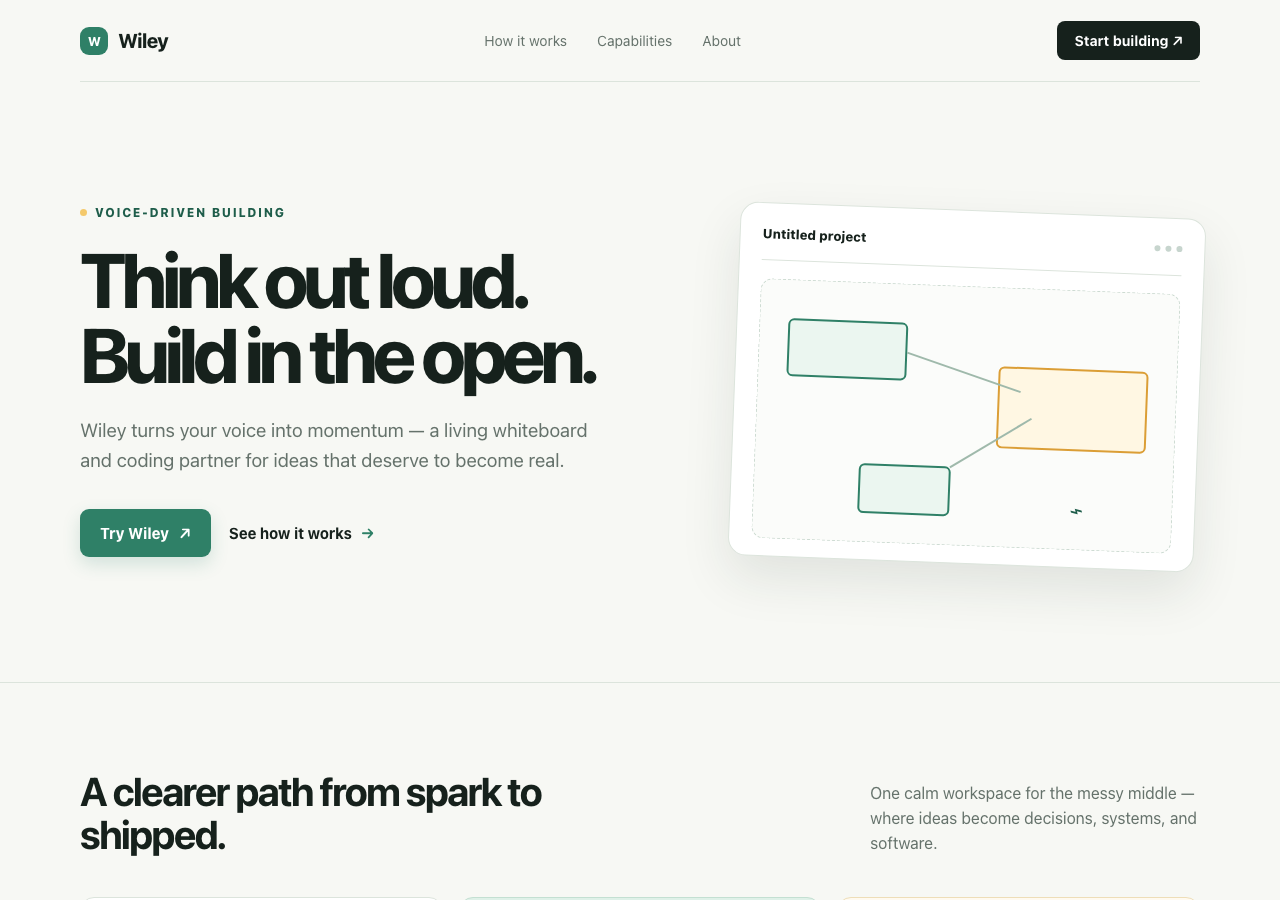
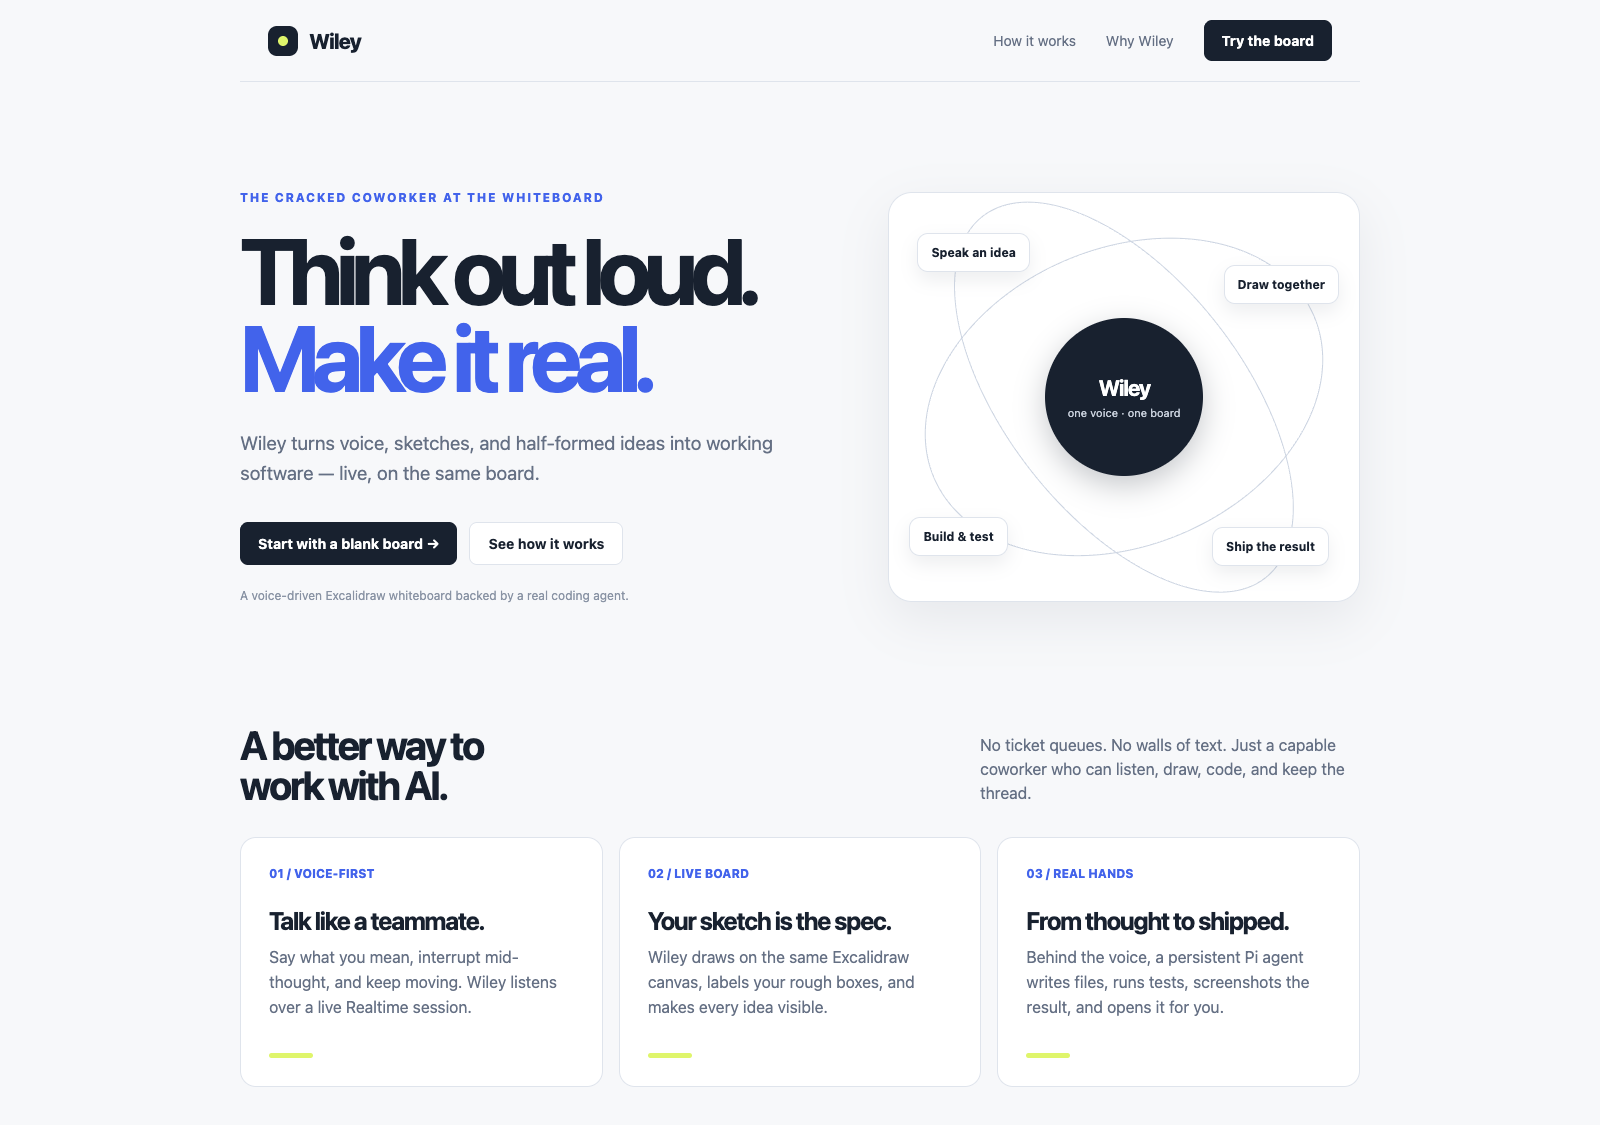
Refresh the README boards from a current landing run
Both hero images came from an old landing scenario run, back when the voice
node still read gpt-realtime-2.1. Regenerated from run-2026-08-16T18-07-56.797Z,
which passed 10/10: the diagram now carries themed node roles and the shipped
default, gpt-realtime-mini-2.1, and the site shot is the page that run built.

The stale label had a source: the harness guide and the test procedure both
still named gpt-realtime-2.1 as the wired model, and those docs are copied
into the scenario workspace for the agent to read. Corrected to the default
the code actually ships.

diff --git a/docs/agent-test-procedure.md b/docs/agent-test-procedure.md
@@ -1,6 +1,6 @@
 # Agent-Driven Test Procedure
 
-Automated, layered, peer-reviewed testing for the Wiley stack (Electron + Excalidraw + gpt-realtime-2.1 + pi harness). The goal: every seam is exercised by machines, every result is judged by a fresh-context agent, and defects surface before a human ever puts on headphones.
+Automated, layered, peer-reviewed testing for the Wiley stack (Electron + Excalidraw + gpt-realtime-mini-2.1 + pi harness). The goal: every seam is exercised by machines, every result is judged by a fresh-context agent, and defects surface before a human ever puts on headphones.
 
 Companion to `pi-harness-guide.md`; section numbers below refer to that guide.
 
@@ -86,7 +86,7 @@ The whole stack, real OpenAI realtime, real pi, real canvas, no human.
 - Feed them as the mic via Chromium fake-media flags: `--use-fake-device-for-media-stream --use-file-for-fake-audio-capture=<wav>` (Playwright launch args). Multi-turn scripts swap the capture file between turns.
 - Capture: output audio transcript (from `response.done` items), final board scene + screenshot, pi session JSONL, guard log.
 - A judge agent grades the full session against the scenario script: was the interruption honored immediately (not after the current task finished), did narration happen during (not only after) the run, does the final board match the request, was anything spoken that never happened (hallucinated success is an automatic FAIL), and does the voice stay in the Wiley persona throughout: first person, never mentioning agents, subagents, engines, or layers.
-- Budget guard: cap per-run spend; nightly runs use `gpt-realtime-2.1-mini` for the voice side where the scenario doesn't test voice quality itself.
+- Budget guard: cap per-run spend; nightly runs use `gpt-realtime-mini-2.1` for the voice side where the scenario doesn't test voice quality itself.
 
 ## Peer-review protocol (applies to every layer)
 
